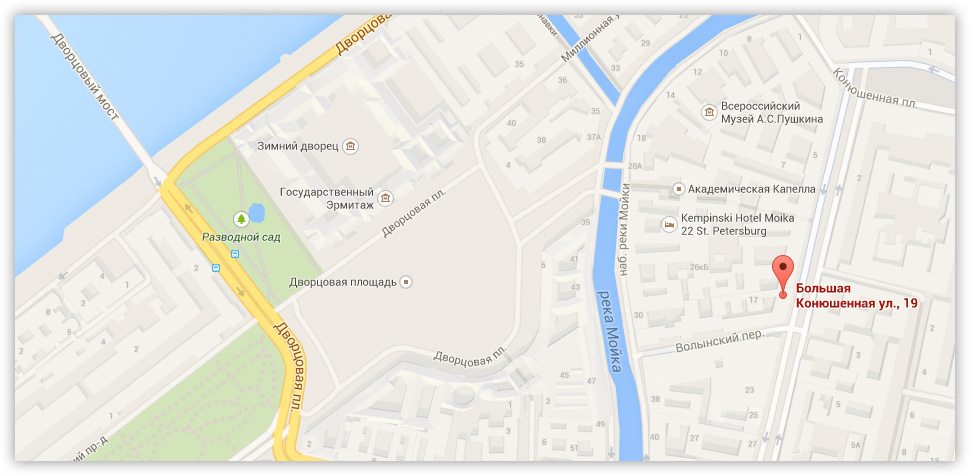
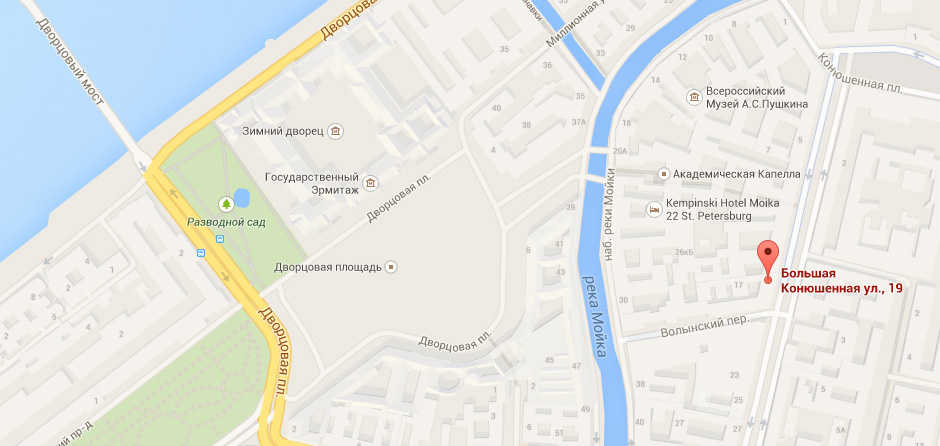
Добавила увеличенную карту(пока без js) и мин css

diff --git a/css/style.css b/css/style.css
@@ -322,8 +322,7 @@ a {
 }
 
 .contacts-header .phone::before,
-.contacts-header-catalog .phone::before
- {
+.contacts-header-catalog .phone::before {
   content: "";
   position: absolute;
   top: 50%;
@@ -1049,6 +1048,27 @@ a {
   vertical-align: middle;
 }
 
+.modal-map {
+  display: none;
+  position: fixed;
+  top: 50%;
+  left: 50%;
+  margin-top: -280px;
+  margin-left: -470px;
+  z-index: 100;
+}
+
+.modal-map .modal-close:before {
+  position: absolute;
+  display: block;
+  content: "";
+  width: 21px;
+  height: 21px;
+  left: 915px;
+  top: -439px;
+  background: url("../img/modal-close.svg") no-repeat;
+}
+
 /*Services-slider start*/
 .services {
   background-color: #f4f7f9;
@@ -1720,7 +1740,7 @@ a {
 }
 
 .filter-brands label,
-.filter-power  label{
+.filter-power label {
   position: relative;
 }
 

diff --git a/index.html b/index.html
@@ -362,6 +362,13 @@
       </div>
     </div>
   </footer>
+  <section class="modal-map">
+     <h2 class="visually-hidden">Как до нас добраться</h2>
+     <p><img src="img/map.jpg" width="940" height="446" alt="г. Санкт-Петербург, ул. Б. Конюшенная, д.19/8"></p>
+     <button type="button" class="modal-close">
+       <span class="visually-hidden">Закрыть</span>
+     </button>
+   </section>
 </body>
 
 </html>
